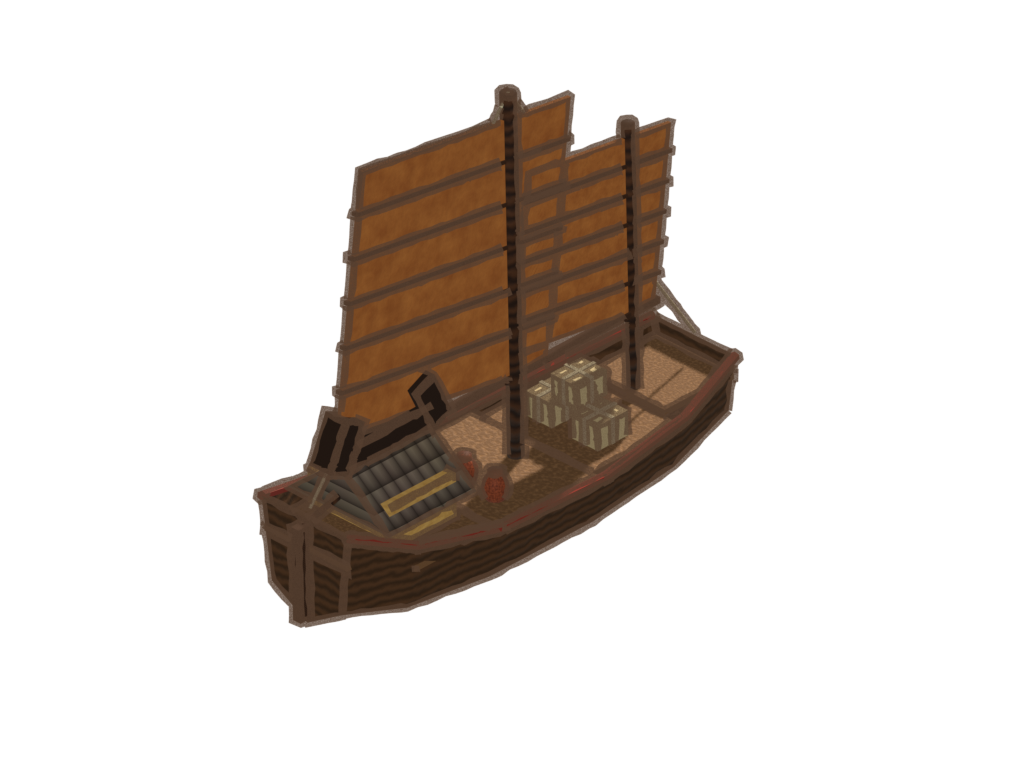
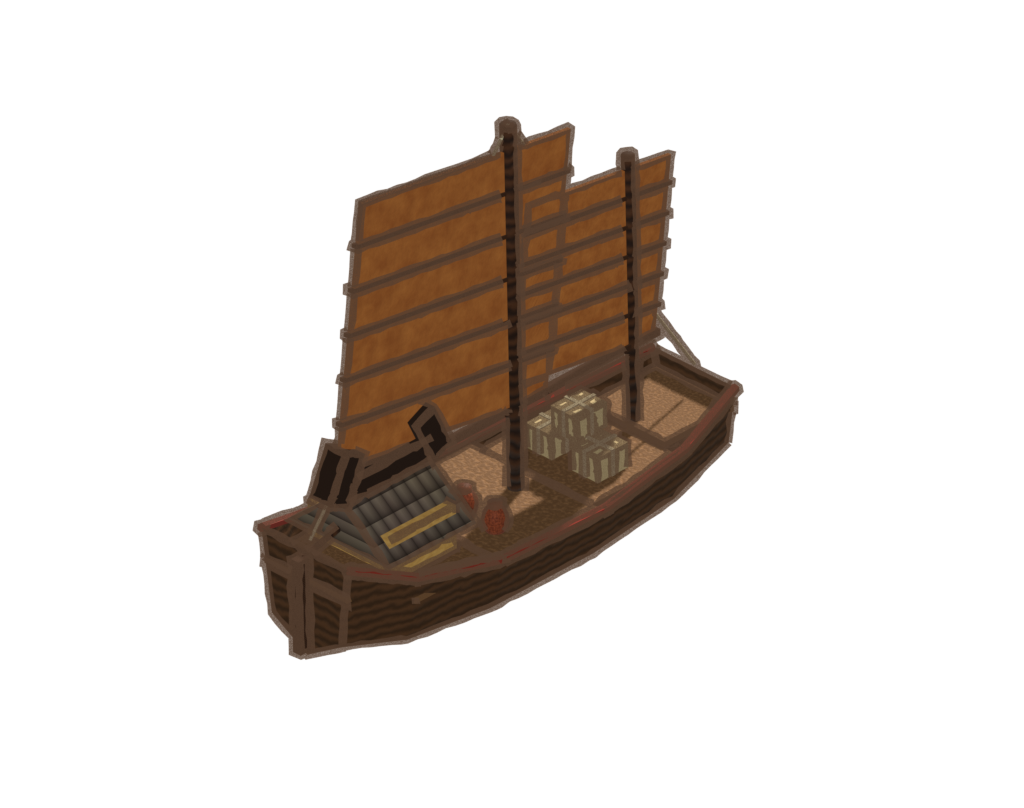
U Phase 4: the trade ship's n, s and e facings
- SHIP_FACINGS gains e (45°), n (135°) and s (-45°); catalog/trade.json
  renders idle_n, idle_s and idle_e, with idle_w and the diagonal walk
  sets copying them (w mirrors e), so the ship plays its own art on a
  diagonal.
- The tile's draw size grows to 101 px for the s facing's mast; units
  stand on their frame's bottom edge, so ne and se, re-rendered with
  the headroom, stand where they did.
- Docs: the plan's notes, the generator's README, known-issues.

Changed region(s): [[0.25, 0.0928, 0.75, 0.8351]]

diff --git a/crates/tools/blender-tile-generator/hbgen/recipes/trade.py b/crates/tools/blender-tile-generator/hbgen/recipes/trade.py
@@ -8,11 +8,14 @@ placed). It's modelled with its land on +Y, the engine's north, then turned to i
 bank, as the sluice gate is (floods.GATE_SIDES).
 
 The ship is the pipeline's first unit: a rigid model rendered in the unit sprite
-format, in the two directions the engine draws (ne and se; nw and sw are those
-mirrored), with a slow two-frame bob for its idle and its sailing. It's modelled with
-its bow on +X (screen lower right, se) and turned to +Y (upper right, ne). Its frame
-is a 2x2 footprint's, so the ship, longer than a cell, fits; the unit's iso_offset in
-the catalog puts the frame's middle on its cell.
+format, in five of the eight directions it sails (ne, se, and the diagonals' n, s and
+e; nw, sw and w are those mirrored: docs/plans/unit-movement.md), with a slow
+two-frame bob for its idle and its sailing. It's modelled with its bow on +X (screen
+lower right, se) and turned about Z to each facing: +Y is upper right (ne), and the
+diagonals lie between, e (screen right) at 45 degrees, n (up) at 135 and s (down) at
+-45. Its frame is a 2x2 footprint's, so the ship, longer than a cell, fits at every
+facing (across the screen, e, it's widest: about 72 of the frame's 128 logical px);
+the unit's iso_offset in the catalog puts the frame's middle on its cell.
 """
 
 import math
@@ -27,7 +30,7 @@ from .floods import GATE_SIDES
 DECK_Z = 0.12
 
 # The rotation that turns the ship's bow (+X as it's modelled) to each facing.
-SHIP_FACINGS = {"se": 0.0, "ne": 90.0}
+SHIP_FACINGS = {"se": 0.0, "e": 45.0, "ne": 90.0, "n": 135.0, "s": -45.0}
 
 
 def _turn(B, degrees):
@@ -188,7 +191,7 @@ def build_trade_ship(B, facing="se", bob=0, **_):
     """A sea junk (one hull for river and sea routes in every realm for now, Q15): a dark hull with
     a high stern and a red-banded gunwale, a deckhouse aft under a tiled roof, two masts with
     battened ochre sails, a rudder, and bales and jars on deck. `facing` is "se" (bow to the screen's
-    lower right) or "ne" (upper right); `bob` 1 lifts it a little on the swell, the second frame of
+    lower right), "ne" (upper right), "e" (right), "n" (up) or "s" (down); `bob` 1 lifts it a little on the swell, the second frame of
     its idle and its sailing."""
     if facing not in SHIP_FACINGS:
         raise ValueError(f"ship facing must be one of {sorted(SHIP_FACINGS)}, got {facing!r}")

diff --git a/.claude/rules/known-issues.md b/.claude/rules/known-issues.md
@@ -69,7 +69,7 @@ Last verified against the code on 2026-11-23.
   - Relations don't move until gifts and tribute (game Phase 2), so their scale on a partner's prices is fixed. A price moves once per caravan's store visit or docker's load, not per unit, so a large load goes at the price it started at. The world map's panel shows the prices now but not this year's amounts (the trade limits dialog has them). The ▲ and ▼ after a moved price come from a fallback font where a realm's own lacks them (Source Code Pro in Đại Long's skin).
   - Campaign I's land partners are the Clan camps and Đê Sơn, both world cities on its map. Đê Sơn stands in for the delta, the player's earlier cities: when M13 makes it mission 4's city (`MissionDef::city`), a partner must be able to name a mission's city. No mission has a `trade` block yet (M13's I-5); custom games trade with their realm's partners, and Kambara's and Tampadesa's world maps have none whose goods the game trades.
   - The caravan is the vendor recoloured (no pack animals or cart), walks land and roads in eight directions (drawn with the four axis directions' art on a diagonal, until docs/plans/unit-movement.md's Phase 4), and carries its goods in its task, so the city's stats don't count them. Imports are paid only as far as the treasury goes; a skipped month (nothing to trade, no dock) is only logged. A store's panel doesn't say when a caravan last traded there.
-  - Docks and ships: one ship for river and sea routes in every realm (a sea junk), the dock's art and glyph Đại Long's in every realm. The ship sails eight directions, keeping off the shore where it can, but is drawn with its four axis facings (a diagonal with the nearest one's) until docs/plans/unit-movement.md's Phase 4 renders its `n`, `s` and `e`, in a 2 × 2 frame; the minimap draws no ships. Dockers are runners: an unloading docker ends its errand at the store without walking home, and a loading one fetches from the nearest store that holds the good. A dock's berth is any open water beside it, so a ship may moor on its land side's corner where the shore allows. Flooded land isn't water, so ships keep to the river. No mission has a river route yet (M13).
+  - Docks and ships: one ship for river and sea routes in every realm (a sea junk), the dock's art and glyph Đại Long's in every realm. The ship sails eight directions, keeping off the shore where it can, drawn in a 2 × 2 frame (its battened sails lie along its keel, so bow-on, heading up or down the screen, it shows its masts more than its sails); the minimap draws no ships. Dockers are runners: an unloading docker ends its errand at the store without walking home, and a loading one fetches from the nearest store that holds the good. A dock's berth is any open water beside it, so a ship may moor on its land side's corner where the shore allows. Flooded land isn't water, so ships keep to the river. No mission has a river route yet (M13).
   - The trade limits dialog has no mockup (the City book's style), its dropdowns offer fixed steps (a limit set by automation shows as its own item), and it shows the city's holdings as they were when it was built (each month).
   - Prices, amounts, the intervals, the caravan's and the ship's capacity, the dock's cost and the routes' cost are unbalanced (M13).
 - Terrain height (`crates/game/src/tile/elevation.rs`, docs/plans/terrain-height.md, done but for Phase 2's defence hooks): the heights are data (save v15), edited in the developer editor and automation, drawn raised, and followed by picking, placement, paths, floods, irrigation and a farmstead's reach. Services' coverage, faith's coverage and wells' water are measured along the grid and ignore heights (Q9's default, until playtesting says otherwise). A flood that rises a level (`flood_level` 1) draws its water on the raised tops it covers, its cliffs' faces as they were; no mission sets one (M13). A click on a cliff face picks the cell on top of it (placing there places on the top). No preset or mission uses heights yet. The cliff, rim and ramp pieces are placeholder art in Đại Long's look for every realm; a cliff's lip shows faint notches at each cell's corner (the hand-made terrain sprites' own edge band), and a ramp's top is the terrain sprite stretched onto the slope. On a dense, hilly map at the widest zoom raised ground costs OpenGL about 1.6 ms of CPU a frame (more texture switches and sprites; plan Stage 3's notes).
@@ -88,7 +88,7 @@ Last verified against the code on 2026-11-23.
   - Distinctions (`crates/game/src/ratings/distinctions.rs`): no Campaign I mission has any until M13 writes them, so the picker's "N of M distinctions" and the campaign-complete count show only for the hidden test campaigns, which the picker never lists. Their lines are worded from their condition ("Culture 60 or higher", "Never fall into debt"), with no wording of a mission's own. The "never" forms are checked at each month's start and once more as the goals are met: never short of a good means not out of storage at those moments, and never in debt means no month's end in debt (a dip within a month doesn't count). A distinction spoiled says nothing (`goals.state` and World Debug's Ratings tab show it), and the HUD and the briefing don't list a mission's distinctions. The debrief marks one earned in an earlier play as earned. Nothing happens after the goals are met: Keep playing earns nothing more.
   - Custom games (`crates/game/src/custom_game/`, the debrief `crates/game/src/menu/dialog/custom_game_complete.rs`): two goal sets, "A thriving town" and "A city of culture", their numbers first guesses (M13); a goal set has no distinctions, and its debrief no mockup (the failure screen's centred panel, not in the Screens menu's previews), "GOALS MET" with the goal set's name, Keep playing and Return to the menu only, and nothing in the profile. A goal set's time limit loses the game only with the Failure switch on, and no set has one. Try again needs the start a save's header keeps from this phase on: a custom game saved before it can't be tried again (the button is disabled), nor one whose map's save is gone. The custom game's Legitimacy failure is the court's recall in the realm's words, as a mission's ("The court has recalled you").
   - Every cap, floor and parameter is unbalanced (M13).
-- Eight-direction movement (docs/plans/unit-movement.md, Phases 1 to 3 done): walkers off the road (settlers, harvesters, responders, caravans, dogs, buffalo) and trade ships move diagonally across open ground and water, but no unit has art for the N, S, E and W directions yet, so a diagonal step is drawn with the walk of the axis direction beside it on the side it turned from (`axis_fallback`) until Phase 4's art; the bird keeps its own flight (`flies`). — `crates/game/src/unit/navigation.rs`, `assets/tiles/objects/tile_set.json`.
+- Eight-direction movement (docs/plans/unit-movement.md, Phases 1 to 3 done): walkers off the road (settlers, harvesters, responders, caravans, dogs, buffalo) move diagonally across open ground, but no walker has art for the N, S, E and W directions yet (the trade ship has: Phase 4), so a diagonal step is drawn with the walk of the axis direction beside it on the side it turned from (`axis_fallback`) until Phase 4's art; the bird keeps its own flight (`flies`). — `crates/game/src/unit/navigation.rs`, `assets/tiles/objects/tile_set.json`.
 - The fire watcher is the guard recoloured (`crates/tools/unit-recolor`) and the builder is a plain peasant; walker art of their own waits for the Blender walker experiment (placeholder-art Phase 6) — `docs/plans/city-risks.md`.
 - A skin or language rebuild (`ui.realm`, `ui.reload_skin`, `text.language`) builds the dialogs and the HUD again: an open popup closes, the inspector closes, the palette selection is dropped, and a button under the cursor plays its hover sound again (`TODO(realm-ui)` at `rebuild_all`). Settings' pending edits and tab and Load / Save's typed name are kept (`settings::STATE`, `load_save::STATE`). The home menu and the campaign picker are also rebuilt when the profile changes or a window resize changes the dialogs' scale, which replays that hover sound too (the picker keeps its pick) — `crates/game/src/menu/dialog/mod.rs`, `crates/game/src/menu/in_game/mod.rs`.
 

diff --git a/docs/plans/unit-movement.md b/docs/plans/unit-movement.md
@@ -170,9 +170,15 @@ Done when: nothing changes in play. Every unit still moves 4-way and looks the s
 
 ### Phase 4: Art (small to medium; the walkers depend on placeholder-art Phase 6)
 
-- [ ] The trade ship's `n`, `s` and `e` facings from its Blender recipe (`SHIP_FACINGS`, `catalog/trade.json`, `tilegen.sh trade_ship`), `w` mirrored, checked in its 2 × 2 frame. This doesn't wait for the experiment and can land with Phase 2.
+- [x] The trade ship's `n`, `s` and `e` facings from its Blender recipe (`SHIP_FACINGS`, `catalog/trade.json`, `tilegen.sh trade_ship`), `w` mirrored, checked in its 2 × 2 frame. This doesn't wait for the experiment and can land with Phase 2.
 - [ ] N, S and E walk and idle frames for the settler, peasant, medic, dog and buffalo, and for the guard and the vendor, recoloured into the fire watcher and the trader, from Blender if the experiment succeeds, otherwise by hand. Add them to `tile_set.json` with W mirrored.
 - [ ] Review in the game at 1× zoom and at full zoom, next to the hand-made directions.
+
+**Notes (2026-11-28): the ship's facings done.**
+- **Recipe** ([hbgen/recipes/trade.py](../../crates/tools/blender-tile-generator/hbgen/recipes/trade.py)): `SHIP_FACINGS` gains `e` (45°: bow to the screen's right), `n` (135°: up) and `s` (−45°: down), between the `se` (0°) and `ne` (90°) it had. `catalog/trade.json` renders them as `idle_n`, `idle_s` and `idle_e` (two bob frames each), with `idle_w` and the four diagonal `walk_*` sets copying them (`w` mirrors `e`), so the ship plays its own art on a diagonal and the fallback no longer applies to it.
+- **Frame:** `e`, broadside across the screen, is the widest, about 72 of the frame's 128 logical px, so the 2 × 2 frame holds it. `s`'s mainmast reaches higher on screen than any other facing's, so the tile's one draw size grows from 97 to 101 logical px; the engine stands a unit's frame on its bottom edge (`calc_unit_iso_coords`), so `ne` and `se`, re-rendered with 4 px more room at the top and otherwise the same, stand where they did.
+- **Looked at:** the contact sheet and, in a probe like `trade.jsonl`'s (a 14-row river, the dock on its far bank), the ship crossing 12 diagonal cells heading S at 1.5× zoom: bow down, on its cell, in its frame. Bow-on (`n`, `s`) the junk's battened sails, which lie along its keel, are seen edge-on, so those facings show its masts more than its sails, as the model is.
+- **Verified:** `sync_tileset.py --check`, the generator's unit tests, `cargo test -p game --test trade` and the CI `trade.jsonl` and `offroad.jsonl` scenarios.
 
 ## Risks
 

diff --git a/crates/tools/blender-tile-generator/README.md b/crates/tools/blender-tile-generator/README.md
@@ -364,15 +364,15 @@ bank.
 
 **Units** (`catalog/trade.json`): an entry with a `unit` block renders a unit's
 sprites, the trade ship the first. Its `category` is `units`; its variations are
-the anim sets it renders, named as their folders (`idle_ne`, `idle_se`: a unit's
+the anim sets it renders, named as their folders (`idle_ne`, `idle_se`, `idle_n`, `idle_s`, `idle_e`: a unit's
 sprites are `assets/tiles/objects/units/<tile>/<anim set>/<frame>.png`), and its
 `frames` the frames of each (`frame0`, `frame1`, with their recipe `params`). The
 `unit` block is the tile def's one variation as the engine reads it, written as
 it is: its `iso_offset` and its `anim_sets`, where a rendered set says
 `"frames_source": {"Files": 2}` and the others copy one (`CopyAllFrom`), mirrored
-for nw and sw. The sync writes a unit's `draw_size` only (units have no
+for nw, sw and w. The sync writes a unit's `draw_size` only (units have no
 `logical_size`). The recipe turns the model to each facing (`ne`: bow to +Y, `se`:
-to +X) and returns the footprint whose frame it's drawn in: the ship's is 2, a
+to +X, and the diagonals between: `e` 45°, `n` 135°, `s` −45°) and returns the footprint whose frame it's drawn in: the ship's is 2, a
 128-px-wide frame round a hull longer than a cell, and its `iso_offset` (`y: 32`)
 moves the frame's middle, the model's origin, onto the unit's cell (the engine
 stands a unit's sprite on its cell's centre). Units skip the ground checks
